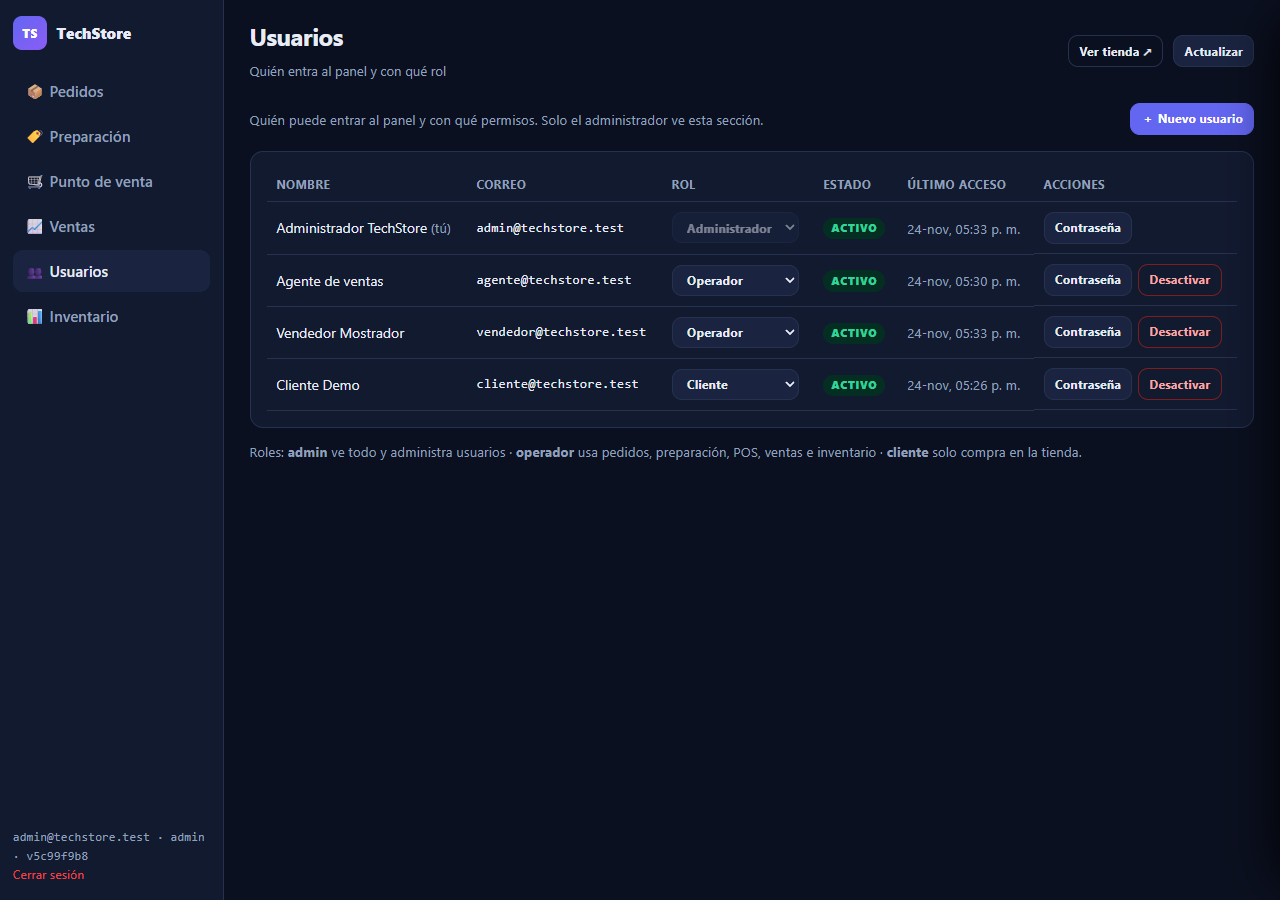
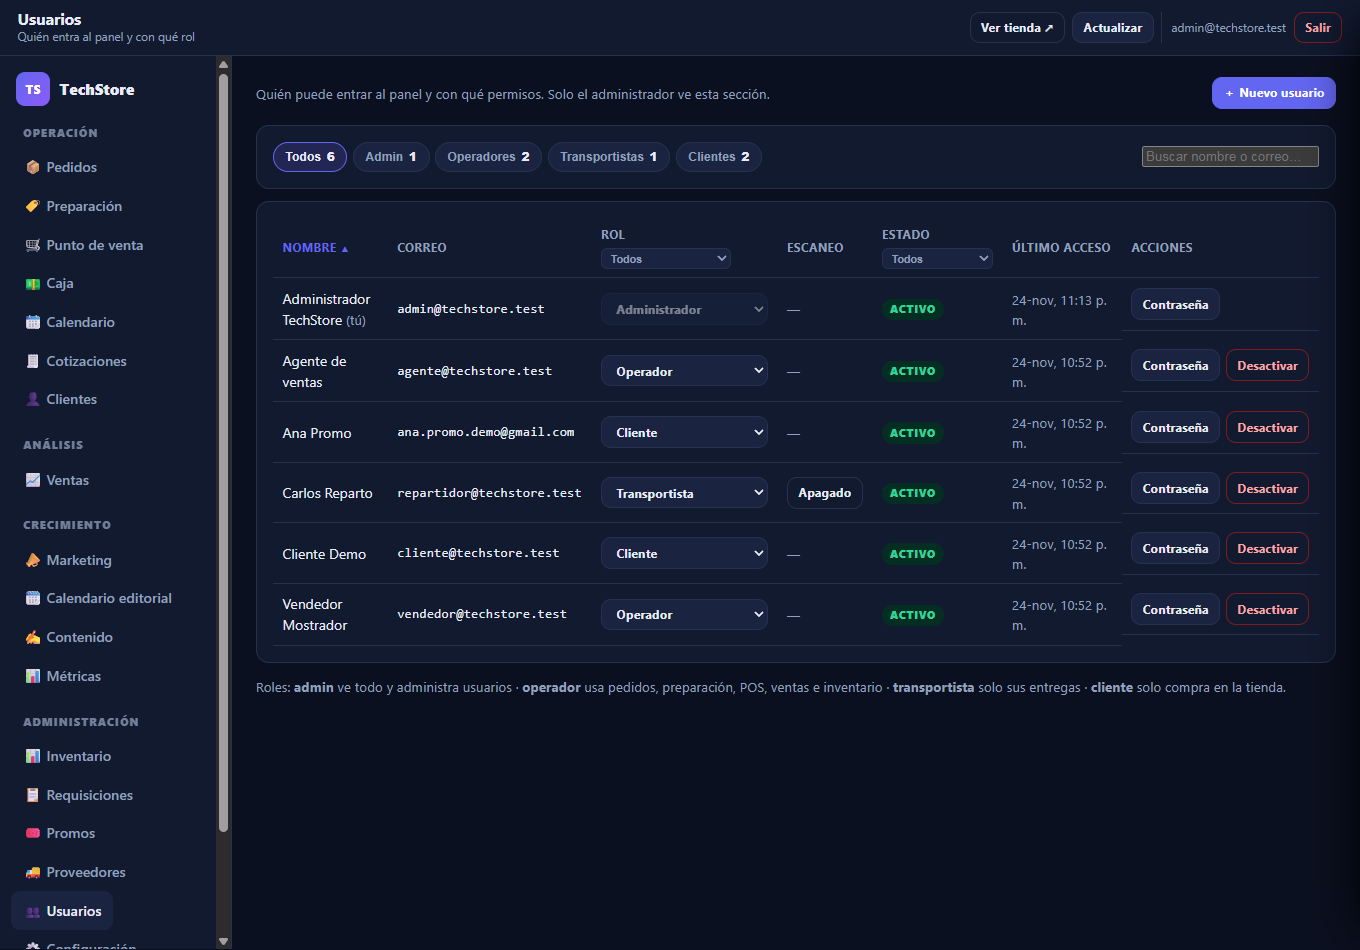
feat(usuarios): encabezados ordenables, filtros por columna y chips por rol
- Clic en Nombre, Correo, Rol, Estado y Ultimo acceso ordena asc/desc con flecha
- Filtros dentro del encabezado para Rol y Estado
- Chips de acceso directo por tipo de usuario con conteo
- Buscador por nombre o correo (sin acentos)
- Filtros, orden y busqueda se recuerdan en localStorage
- Filas apiladas como tarjetas en movil

diff --git a/js/admin.js b/js/admin.js
@@ -2731,7 +2731,7 @@ $('#socialSave').addEventListener('click', async (e) => {
 });
 
 /* ---------------- usuarios y roles ---------------- */
-const ROLE_LABEL = { admin: 'Administrador', operador: 'Operador', transportista: 'Transportista', cliente: 'Cliente' };
+const ROLE_LABEL = { admin: 'Administrador', operador: 'Operador', transportista: 'Transportista', community_manager: 'Community manager', cliente: 'Cliente' };
 
 function randomPassword(len = 12) {
   const alphabet = 'ABCDEFGHJKLMNPQRSTUVWXYZabcdefghijkmnopqrstuvwxyz23456789';
@@ -2769,51 +2769,191 @@ function showCredentials({ email, password, role, name }) {
   host.scrollIntoView({ behavior: 'smooth', block: 'nearest' });
 }
 
+const USERS = {
+  list: [],
+  cargada: false,
+  q: '',
+  role: 'all',
+  active: 'all',
+  sort: { key: 'name', dir: 'asc' },
+};
+
+const ROLE_ORDER = { admin: 0, operador: 1, transportista: 2, community_manager: 3, cliente: 4 };
+const norm = (s) => String(s || '').normalize('NFD').replace(/[\u0300-\u036f]/g, '').toLowerCase();
+
+function saveUsersPrefs() {
+  try {
+    localStorage.setItem('ts.users.prefs', JSON.stringify({
+      q: USERS.q, role: USERS.role, active: USERS.active, sort: USERS.sort,
+    }));
+  } catch { /* modo privado: se ignora */ }
+}
+
+function loadUsersPrefs() {
+  try {
+    const p = JSON.parse(localStorage.getItem('ts.users.prefs') || '{}');
+    if (typeof p.q === 'string') USERS.q = p.q;
+    if (p.role) USERS.role = p.role;
+    if (p.active) USERS.active = p.active;
+    if (p.sort?.key) USERS.sort = { key: p.sort.key, dir: p.sort.dir === 'desc' ? 'desc' : 'asc' };
+  } catch { /* preferencias corruptas: se usan los valores por defecto */ }
+}
+
+function usersFiltrados() {
+  const q = norm(USERS.q).trim();
+  const rows = USERS.list.filter((u) => {
+    if (USERS.role !== 'all' && u.role !== USERS.role) return false;
+    if (USERS.active !== 'all' && String(u.active) !== USERS.active) return false;
+    if (!q) return true;
+    return norm(u.full_name).includes(q) || norm(u.email).includes(q);
+  });
+
+  const { key, dir } = USERS.sort;
+  const mul = dir === 'asc' ? 1 : -1;
+  const byName = (a, b) => norm(a.full_name).localeCompare(norm(b.full_name));
+
+  rows.sort((a, b) => {
+    if (key === 'role') return (ROLE_ORDER[a.role] ?? 9) - (ROLE_ORDER[b.role] ?? 9) || byName(a, b);
+    if (key === 'active') return (Number(b.active) - Number(a.active)) * mul || byName(a, b);
+    if (key === 'last') {
+      const ta = a.last_sign_in ? new Date(a.last_sign_in).getTime() : -1;
+      const tb = b.last_sign_in ? new Date(b.last_sign_in).getTime() : -1;
+      return (ta - tb) * mul;
+    }
+    if (key === 'email') return norm(a.email).localeCompare(norm(b.email)) * mul;
+    return byName(a, b) * mul;
+  });
+  return rows;
+}
+
+function pintarUsuarios() {
+  const chipsEl = document.getElementById('usrRoleChips');
+  const conteo = { all: USERS.list.length };
+  USERS.list.forEach((u) => { conteo[u.role] = (conteo[u.role] || 0) + 1; });
+
+  const chips = [['all', 'Todos'], ['admin', 'Admin'], ['operador', 'Operadores'], ['transportista', 'Transportistas']];
+  if (conteo.community_manager) chips.push(['community_manager', 'Marketing']);
+  chips.push(['cliente', 'Clientes']);
+
+  if (chipsEl) {
+    chipsEl.innerHTML = chips.map(([v, label]) => `
+      <button type="button" class="usr-chip ${USERS.role === v ? 'active' : ''}" data-role-chip="${v}">
+        ${label} <b>${conteo[v] || 0}</b></button>`).join('');
+  }
+
+  const selRole = document.getElementById('usrRoleFilter');
+  if (selRole) selRole.value = USERS.role;
+  const selActive = document.getElementById('usrActiveFilter');
+  if (selActive) selActive.value = USERS.active;
+  const search = document.getElementById('usrSearch');
+  if (search && search.value !== USERS.q) search.value = USERS.q;
+
+  document.querySelectorAll('#usersTable th[data-sort]').forEach((th) => {
+    const activo = th.dataset.sort === USERS.sort.key;
+    th.classList.toggle('sorted', activo);
+    const dir = activo ? (USERS.sort.dir === 'asc' ? '▲' : '▼') : '';
+    th.dataset.dir = dir;
+    const flecha = th.querySelector('.th-dir');
+    if (flecha) flecha.textContent = dir;
+  });
+
+  const rows = usersFiltrados();
+  const tbody = $('#usersTable').querySelector('tbody');
+  const vacio = document.getElementById('usersEmpty');
+  if (vacio) vacio.hidden = rows.length > 0;
+
+  tbody.innerHTML = rows.map((u) => {
+    const self = u.id === state.profile.id;
+    return `<tr>
+      <td data-label="Nombre">${esc(u.full_name || '—')}${self ? ' <span class="small muted">(tú)</span>' : ''}</td>
+      <td data-label="Correo" class="small mono">${esc(u.email || '')}</td>
+      <td data-label="Rol">
+        <select class="btn sm" data-role="${u.id}" ${self ? 'disabled' : ''}>
+          ${['admin', 'operador', 'transportista', 'community_manager', 'cliente']
+            .map((r) => `<option value="${r}" ${u.role === r ? 'selected' : ''}>${ROLE_LABEL[r] || r}</option>`)
+            .join('')}
+        </select>
+      </td>
+      <td data-label="Escaneo">${u.role === 'transportista'
+        ? `<button class="btn sm ${u.scan_delivery ? '' : 'ghost'}" data-scanperm="${u.id}" data-on="${u.scan_delivery}">
+             ${u.scan_delivery ? '📷 Activo' : 'Apagado'}</button>`
+        : '<span class="small muted">—</span>'}</td>
+      <td data-label="Estado">${u.active
+        ? '<span class="badge entregado">Activo</span>'
+        : '<span class="badge cancelado">Inactivo</span>'}</td>
+      <td data-label="Último acceso" class="small muted">${u.last_sign_in ? fmtDate(u.last_sign_in) : 'nunca'}</td>
+      <td data-label="Acciones" class="row" style="gap:.35rem">
+        <button class="btn sm" data-reset="${u.id}" data-email="${esc(u.email || '')}">Contraseña</button>
+        ${self ? '' : `<button class="btn sm ${u.active ? 'danger' : ''}" data-toggle="${u.id}" data-active="${u.active}">
+            ${u.active ? 'Desactivar' : 'Activar'}
+          </button>`}
+      </td>
+    </tr>`;
+  }).join('');
+}
+
 async function renderUsers() {
   if (state.profile?.role !== 'admin') {
     toast('Solo el administrador puede ver los usuarios', 'err');
     return setView('orders');
   }
+  if (!USERS.cargada) {
+    loadUsersPrefs();
+    USERS.cargada = true;
+  }
+
   const tbody = $('#usersTable').querySelector('tbody');
-  tbody.innerHTML = '<tr><td colspan="6" class="small muted">Cargando…</td></tr>';
+  if (!USERS.list.length) tbody.innerHTML = '<tr><td colspan="7" class="small muted">Cargando…</td></tr>';
 
   const { data, error } = await sb.rpc('ts_admin_list_users');
   if (error) {
     tbody.innerHTML = '';
     return toast(errMessage(error), 'err');
   }
-
-  tbody.innerHTML = (data || [])
-    .map((u) => {
-      const self = u.id === state.profile.id;
-      return `<tr>
-        <td>${esc(u.full_name || '—')}${self ? ' <span class="small muted">(tú)</span>' : ''}</td>
-        <td class="small mono">${esc(u.email || '')}</td>
-        <td>
-          <select class="btn sm" data-role="${u.id}" ${self ? 'disabled' : ''}>
-            ${['admin', 'operador', 'transportista', 'cliente']
-              .map((r) => `<option value="${r}" ${u.role === r ? 'selected' : ''}>${ROLE_LABEL[r]}</option>`)
-              .join('')}
-          </select>
-        </td>
-        <td>${u.role === 'transportista'
-          ? `<button class="btn sm ${u.scan_delivery ? '' : 'ghost'}" data-scanperm="${u.id}" data-on="${u.scan_delivery}">
-               ${u.scan_delivery ? '📷 Activo' : 'Apagado'}</button>`
-          : '<span class="small muted">—</span>'}</td>
-        <td>${u.active
-          ? '<span class="badge entregado">Activo</span>'
-          : '<span class="badge cancelado">Inactivo</span>'}</td>
-        <td class="small muted">${u.last_sign_in ? fmtDate(u.last_sign_in) : 'nunca'}</td>
-        <td class="row" style="gap:.35rem">
-          <button class="btn sm" data-reset="${u.id}" data-email="${esc(u.email || '')}">Contraseña</button>
-          ${self ? '' : `<button class="btn sm ${u.active ? 'danger' : ''}" data-toggle="${u.id}" data-active="${u.active}">
-              ${u.active ? 'Desactivar' : 'Activar'}
-            </button>`}
-        </td>
-      </tr>`;
-    })
-    .join('');
+  USERS.list = data || [];
+  pintarUsuarios();
 }
+
+/* filtros, orden y selectores de la tabla de usuarios */
+$('#usrRoleChips')?.addEventListener('click', (e) => {
+  const b = e.target.closest('[data-role-chip]');
+  if (!b) return;
+  USERS.role = b.dataset.roleChip;
+  saveUsersPrefs();
+  pintarUsuarios();
+});
+
+$('#usrRoleFilter')?.addEventListener('change', (e) => {
+  USERS.role = e.target.value;
+  saveUsersPrefs();
+  pintarUsuarios();
+});
+
+$('#usrActiveFilter')?.addEventListener('change', (e) => {
+  USERS.active = e.target.value;
+  saveUsersPrefs();
+  pintarUsuarios();
+});
+
+$('#usrSearch')?.addEventListener('input', (e) => {
+  USERS.q = e.target.value;
+  saveUsersPrefs();
+  pintarUsuarios();
+});
+
+$('#usersTable')?.querySelector('thead')?.addEventListener('click', (e) => {
+  if (e.target.closest('.th-sel')) return; // el desplegable filtra, no ordena
+  const th = e.target.closest('th[data-sort]');
+  if (!th) return;
+  const key = th.dataset.sort;
+  if (USERS.sort.key === key) {
+    USERS.sort.dir = USERS.sort.dir === 'asc' ? 'desc' : 'asc';
+  } else {
+    USERS.sort = { key, dir: 'asc' };
+  }
+  saveUsersPrefs();
+  pintarUsuarios();
+});
 
 $('#usersTable').addEventListener('click', async (e) => {
   const b = e.target.closest('[data-scanperm]');

diff --git a/admin.html b/admin.html
@@ -5,7 +5,7 @@
 <meta name="viewport" content="width=device-width, initial-scale=1">
 <title>Panel · TechStore SV</title>
 <link rel="icon" href="assets/favicon.svg">
-<link rel="stylesheet" href="css/admin.css?v=5272cc65">
+<link rel="stylesheet" href="css/admin.css?v=e0e305a8">
 </head>
 <body>
 
@@ -270,22 +270,55 @@
         <button class="btn primary sm" id="btnNewUser">＋ Nuevo usuario</button>
       </div>
 
+      <div class="panel" style="margin-bottom:.8rem">
+        <div class="row wrap" style="gap:.5rem;align-items:center">
+          <div class="usr-chips" id="usrRoleChips"></div>
+          <input id="usrSearch" placeholder="Buscar por nombre o correo" style="max-width:230px;margin-left:auto" aria-label="Buscar usuario">
+        </div>
+      </div>
+
       <div class="panel">
         <div style="overflow-x:auto">
-          <table class="table" id="usersTable">
+          <table class="table stack-mobile" id="usersTable">
             <thead>
-              <tr><th>Nombre</th><th>Correo</th><th>Rol</th><th>Escaneo</th><th>Estado</th><th>Último acceso</th><th>Acciones</th></tr>
+              <tr>
+                <th class="sortable" data-sort="name" data-dir="">Nombre</th>
+                <th class="sortable" data-sort="email" data-dir="">Correo</th>
+                <th class="sortable th-split" data-sort="role">
+                  <span class="th-label">Rol <i class="th-dir"></i></span>
+                  <select class="th-sel" id="usrRoleFilter" aria-label="Filtrar por rol">
+                    <option value="all">Todos</option>
+                    <option value="admin">Administrador</option>
+                    <option value="operador">Operador</option>
+                    <option value="transportista">Transportista</option>
+                    <option value="community_manager">Community manager</option>
+                    <option value="cliente">Cliente</option>
+                  </select>
+                </th>
+                <th>Escaneo</th>
+                <th class="sortable th-split" data-sort="active">
+                  <span class="th-label">Estado <i class="th-dir"></i></span>
+                  <select class="th-sel" id="usrActiveFilter" aria-label="Filtrar por estado">
+                    <option value="all">Todos</option>
+                    <option value="1">Activos</option>
+                    <option value="0">Inactivos</option>
+                  </select>
+                </th>
+                <th class="sortable" data-sort="last" data-dir="">Último acceso</th>
+                <th>Acciones</th>
+              </tr>
             </thead>
             <tbody></tbody>
           </table>
         </div>
+        <p class="empty small muted" id="usersEmpty" hidden>Ningún usuario coincide con el filtro.</p>
       </div>
 
       <div class="panel" id="userCreds" hidden></div>
 
       <p class="small muted" style="margin-top:.8rem">
         Roles: <b>admin</b> ve todo y administra usuarios · <b>operador</b> usa pedidos, preparación, POS, ventas e inventario ·
-        <b>cliente</b> solo compra en la tienda.
+        <b>transportista</b> solo sus entregas · <b>cliente</b> solo compra en la tienda.
       </p>
     </section>
 
@@ -859,6 +892,6 @@
 <script src="vendor/zxing-library.min.js"></script>
 <script src="vendor/zxing-browser.min.js"></script>
 <script src="vendor/jsbarcode.min.js"></script>
-<script type="module" src="js/admin.js?v=0cd5b822"></script>
+<script type="module" src="js/admin.js?v=a9b82143"></script>
 </body>
 </html>

diff --git a/css/admin.css b/css/admin.css
@@ -298,6 +298,30 @@ th.sortable[data-dir]:not([data-dir=""])::after{content:attr(data-dir);margin-le
 .theme-prev .tp-row{display:flex;gap:.3rem;align-items:center}
 .theme-prev .tp-card{flex:1;height:26px;border-radius:6px}
 .theme-prev .tp-btn{height:14px;width:44px;border-radius:4px}
+/* ---------- tabla de usuarios: selectores y filtros ---------- */
+.usr-chips{display:flex;gap:.35rem;flex-wrap:wrap}
+.usr-chip{
+  border:1px solid var(--line);background:var(--bg-3);color:var(--muted);border-radius:999px;
+  padding:.34rem .72rem;font-size:.76rem;font-weight:700;cursor:pointer;
+  display:inline-flex;align-items:center;gap:.35rem;transition:.15s
+}
+.usr-chip b{font-weight:800;color:var(--txt);font-variant-numeric:tabular-nums}
+.usr-chip:hover{border-color:var(--accent);color:var(--txt)}
+.usr-chip.active{border-color:var(--accent);color:var(--txt);background:rgba(99,102,241,.18)}
+.th-split{min-width:130px;vertical-align:top}
+.th-split .th-label{display:inline-flex;align-items:center;gap:.25rem}
+.th-split::after{display:none}
+.th-dir{font-style:normal;font-size:.7em;color:var(--accent)}
+.th-sel{
+  display:block;width:100%;max-width:130px;margin-top:.3rem;padding:.16rem .3rem;font-size:.66rem;
+  border-radius:6px;background:var(--bg-3);border:1px solid var(--line);color:var(--muted);
+  text-transform:none;letter-spacing:0;font-weight:700;cursor:pointer
+}
+.th-sel:focus{outline:2px solid var(--accent);outline-offset:1px}
+@media (max-width:600px){
+  #usrSearch{max-width:none !important;width:100%;flex:1 1 100%;margin-left:0 !important}
+}
+
 /* ---------- requisiciones ---------- */
 .badge.rq-borrador{background:var(--bg-3);color:var(--muted)}
 .badge.rq-solicitada{background:rgba(245,158,11,.16);color:var(--warn)}

diff --git a/cotizacion.html b/cotizacion.html
@@ -4,7 +4,7 @@
 <meta charset="utf-8">
 <meta name="viewport" content="width=device-width, initial-scale=1">
 <title>Cotización · TechStore</title>
-<link rel="stylesheet" href="css/admin.css?v=5272cc65">
+<link rel="stylesheet" href="css/admin.css?v=e0e305a8">
 <style>
   body{background:#e5e7eb;color:#000}
   .doc{background:#fff;max-width:760px;margin:1.5rem auto;padding:28px 32px;border-radius:6px;box-shadow:0 10px 30px -14px rgba(0,0,0,.4)}

diff --git a/product-label.html b/product-label.html
@@ -4,7 +4,7 @@
 <meta charset="utf-8">
 <meta name="viewport" content="width=device-width, initial-scale=1">
 <title>Etiqueta de producto · TechStore</title>
-<link rel="stylesheet" href="css/admin.css?v=5272cc65">
+<link rel="stylesheet" href="css/admin.css?v=e0e305a8">
 <style>
   body{background:#e5e7eb;color:#000}
   .sheet-wrap{max-width:420px;margin:1.5rem auto;padding:0 1rem}

diff --git a/sticker.html b/sticker.html
@@ -4,7 +4,7 @@
 <meta charset="utf-8">
 <meta name="viewport" content="width=device-width, initial-scale=1">
 <title>Etiqueta de pedido · TechStore</title>
-<link rel="stylesheet" href="css/admin.css?v=5272cc65">
+<link rel="stylesheet" href="css/admin.css?v=e0e305a8">
 <style>
   body{background:#e5e7eb;color:#000}
   .sheet-wrap{max-width:420px;margin:1.5rem auto;padding:0 1rem}
